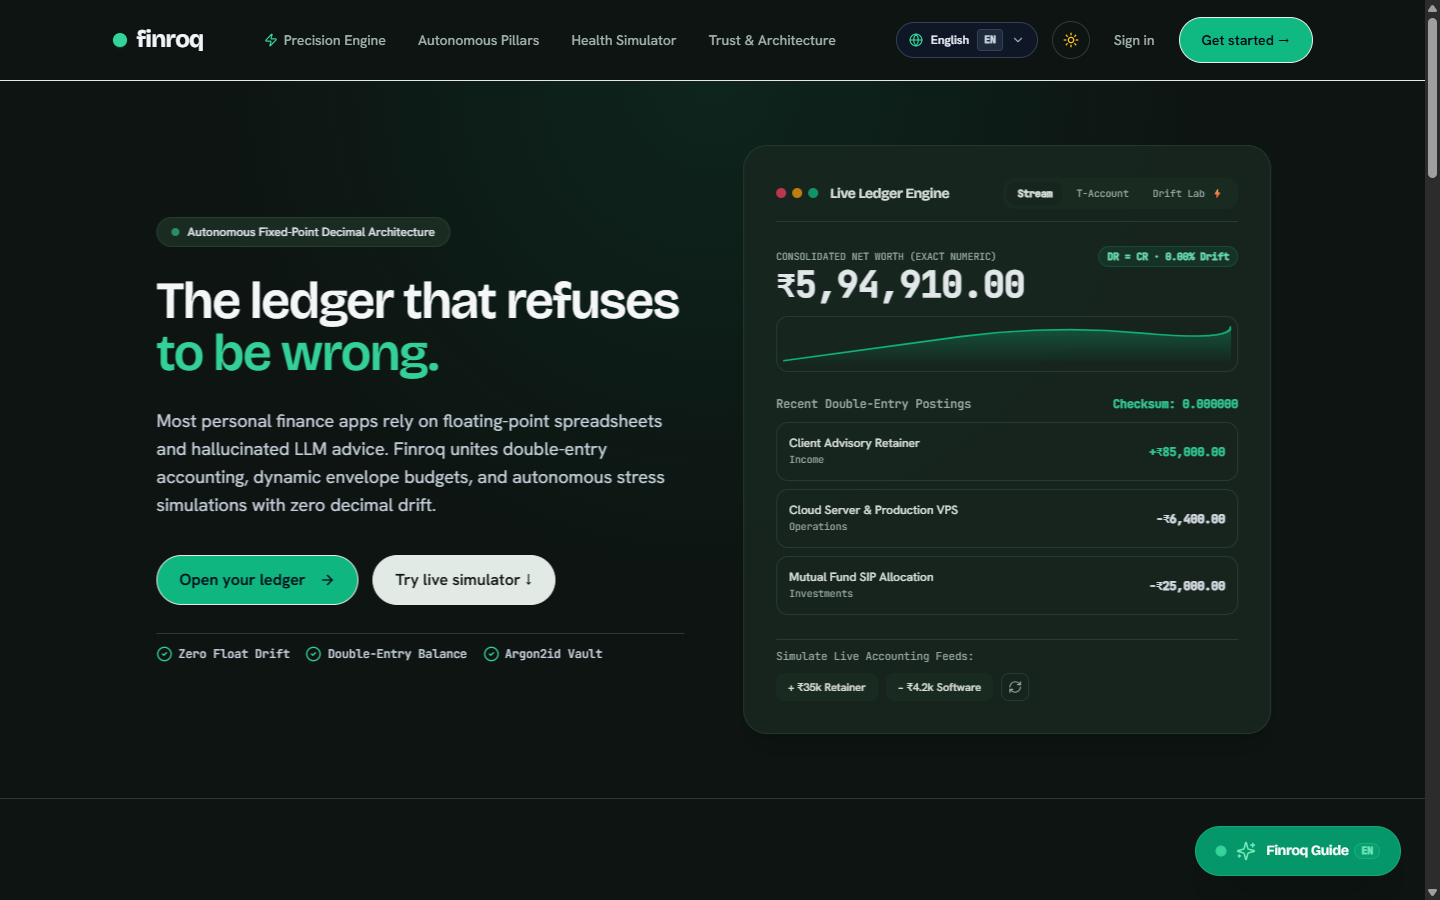
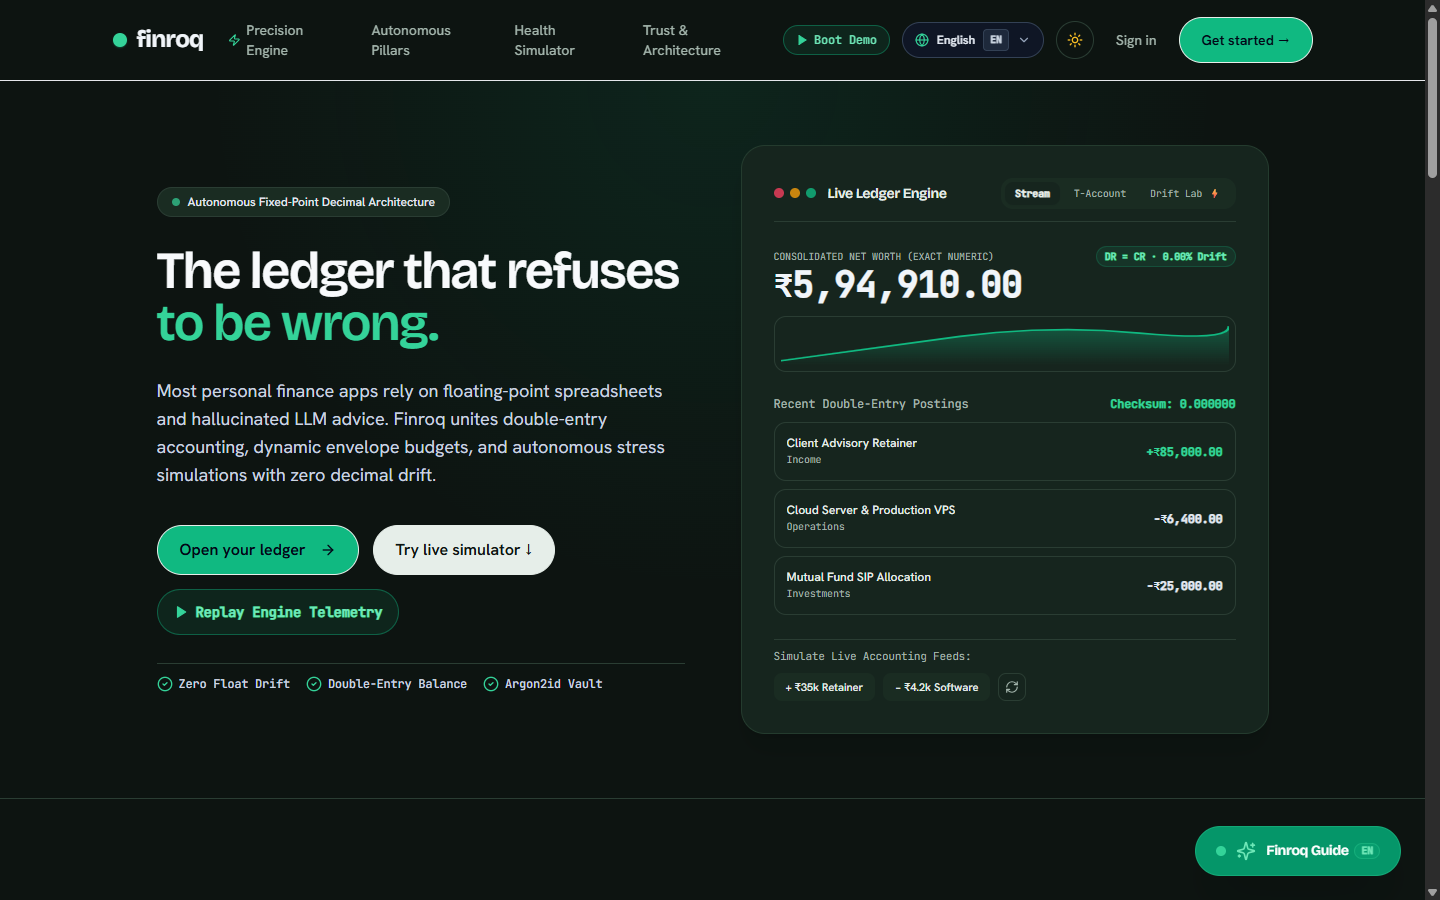
FEAT(LANDING,DOCS): RESTORE CINEMATIC TELEMETRY REPLAY DEMO, REMOVE BROWSER CHROME TABS, AND UPDATE PRISTINE EXHIBITS

diff --git a/frontend/src/components/landing/LandingShowcase.tsx b/frontend/src/components/landing/LandingShowcase.tsx
@@ -78,10 +78,6 @@ export function LandingShowcase({ onEnterApp }: { onEnterApp?: () => void }) {
   // Handle Cinematic Boot Sequence on First Session Visit
   useEffect(() => {
     if (typeof window !== 'undefined') {
-      const urlParams = new URLSearchParams(window.location.search);
-      if (urlParams.get('noboot') === '1') {
-        return;
-      }
       const hasSeenBoot = sessionStorage.getItem('finroq_boot_seen');
       if (!hasSeenBoot) {
         setBootSequenceActive(true);
@@ -443,7 +439,15 @@ export function LandingShowcase({ onEnterApp }: { onEnterApp?: () => void }) {
           </nav>
 
           {/* Right Action Controls */}
-          <div className="flex items-center gap-3.5 shrink-0">
+          <div className="flex items-center gap-3 shrink-0">
+            <button
+              onClick={triggerBootSequence}
+              className="hidden lg:flex items-center gap-1.5 px-3 py-1.5 rounded-full border border-emerald-600/30 dark:border-emerald-500/40 hover:border-emerald-600 dark:hover:border-emerald-400 bg-emerald-500/10 hover:bg-emerald-500/20 text-emerald-800 dark:text-emerald-300 text-xs font-mono font-medium transition-all cursor-pointer shadow-2xs"
+              title="Replay Engine Calibration Boot Sequence"
+            >
+              <Play className="w-3 h-3 fill-current text-emerald-600 dark:text-emerald-400" />
+              <span>Boot Demo</span>
+            </button>
             <LanguageSelector variant="pill" align="right" />
             <button
               onClick={toggleTheme}
@@ -517,7 +521,7 @@ export function LandingShowcase({ onEnterApp }: { onEnterApp?: () => void }) {
 
         <div className="max-w-6xl mx-auto px-5 grid lg:grid-cols-12 gap-12 lg:gap-14 items-center relative">
           {/* Left Column: Core Positioning Narrative */}
-          <div className="lg:col-span-6 space-y-7 reveal-item-left">
+          <div className="lg:col-span-6 space-y-7">
             <div className="inline-flex items-center gap-2 px-3.5 py-1.5 rounded-full bg-[var(--soft)] border border-[var(--line)] text-xs font-medium text-[#173F2B] dark:text-slate-200 shadow-xs">
               <span className="w-2 h-2 rounded-full bg-emerald-600 dark:bg-emerald-400 animate-pulse" />
               <span>Autonomous Fixed-Point Decimal Architecture</span>
@@ -547,6 +551,15 @@ export function LandingShowcase({ onEnterApp }: { onEnterApp?: () => void }) {
               >
                 Try live simulator ↓
               </a>
+              <button
+                type="button"
+                onClick={triggerBootSequence}
+                className="inline-flex items-center gap-2 px-4 py-3 rounded-full border border-emerald-600/30 dark:border-emerald-500/40 hover:border-emerald-600 dark:hover:border-emerald-400 bg-emerald-500/10 hover:bg-emerald-500/20 text-emerald-800 dark:text-emerald-300 text-xs sm:text-sm font-mono font-semibold transition-all cursor-pointer shadow-xs"
+                title="Replay Cinematic Engine Calibration Boot Sequence"
+              >
+                <Play className="w-3.5 h-3.5 fill-current text-emerald-600 dark:text-emerald-400" />
+                <span>Replay Engine Telemetry</span>
+              </button>
             </div>
 
             {/* Three Pillar Guarantees */}
@@ -567,7 +580,7 @@ export function LandingShowcase({ onEnterApp }: { onEnterApp?: () => void }) {
           </div>
 
           {/* Right Column: Interactive Live Precision Ledger Terminal */}
-          <div className="lg:col-span-6 reveal-item-right delay-150">
+          <div className="lg:col-span-6">
             <div className="bg-[var(--surface)] border border-[#CBD5CB] dark:border-[#243B2E] rounded-3xl p-6 sm:p-8 space-y-6 shadow-xl card-hover-lift">
               {/* Header Titlebar with Linear/macOS Style Dots & Tab Selector */}
               <div className="flex items-center justify-between pb-3 border-b border-[var(--line)] flex-wrap gap-2">

diff --git a/README.md b/README.md
@@ -27,8 +27,15 @@ Captured directly from production on [finroq-app.vercel.app](https://finroq-app.
 
 <div align="center">
 
+### Cinematic Engine Telemetry Boot Sequence
+*Autonomous hardware-grade system calibration verifying NUMERIC(14,2) registers, purging float drift, and securing Argon2id enclaves upon entry.*
+
+![Cinematic Engine Telemetry Boot Sequence](docs/assets/finroq-landing-boot.png)
+
+<br/>
+
 ### Precision Landing Hero & Live Ledger Engine
-*Arbitrary decimal precision hero showcasing live double-entry postings, zero float drift telemetry, real-time sparkline balance curves, and interactive T-account validator.*
+*Arbitrary decimal precision hero showcasing live double-entry postings, zero float drift telemetry, balance sparklines, and interactive telemetry replay controls.*
 
 ![Precision Landing Hero](docs/assets/finroq-landing-hero.png)
 
@@ -41,22 +48,15 @@ Captured directly from production on [finroq-app.vercel.app](https://finroq-app.
 
 <br/>
 
-### 13-Module Unified Financial Workspace Hub
-*Unified workspace view displaying all 13 financial engines with instant 18-language selector, Google authentication, autonomous 6-agent crash-test pipeline, and floating AI assistant launcher.*
-
-![FINROQ Live 13-Module Hub](docs/assets/finroq-app-home-live.png)
-
-<br/>
-
-| Pre-Spend Decision Engine | Credit Health Architecture |
+| Autonomous 6-Agent Crash-Test Engine | Evidence-Driven Spend Leak Detector |
 |:---:|:---:|
-| ![Pre-Spend Check](docs/assets/finroq-prespend-check.png) | ![Credit Health](docs/assets/finroq-credit-health.png) |
-| *Real-time pre-purchase simulation on remaining budget caps.* | *Live credit utilization ratios and payment discipline.* |
+| ![Autonomous Crash-Test Engine](docs/assets/finroq-crash-test.png) | ![Spend Leak Detector](docs/assets/finroq-spend-leak.png) |
+| *6-Agent shock traversal simulating career shocks, hospital spikes, and cost-of-living crunches.* | *Evidence-driven audit identifying recurring subscriptions, micro-charges, and irregular surges.* |
 
-| Autonomous Daily Budgeting | Spend Leak Detector |
+| 13-Module Unified Financial Workspace Hub | Pre-Spend Decision Engine |
 |:---:|:---:|
-| ![Daily Budgeting](docs/assets/finroq-budgeting.png) | ![Spend Leak Detector](docs/assets/finroq-spend-leak.png) |
-| *Active category burn-rate monitoring and auto-rebalancing.* | *Audit recurring subscriptions, micro-charges, and irregular surges.* |
+| ![FINROQ Live 13-Module Hub](docs/assets/finroq-app-home-live.png) | ![Pre-Spend Check](docs/assets/finroq-prespend-check.png) |
+| *Unified workspace view displaying all 13 financial engines with instant 18-language selector.* | *Real-time pre-purchase simulation on remaining budget caps.* |
 
 </div>
 
